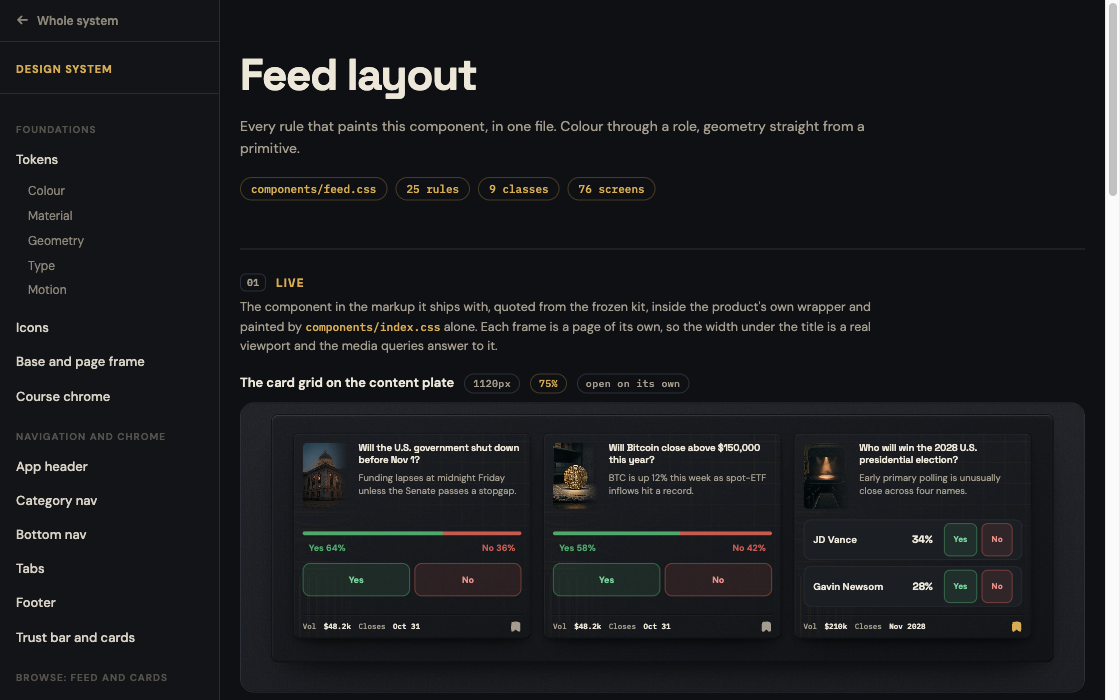
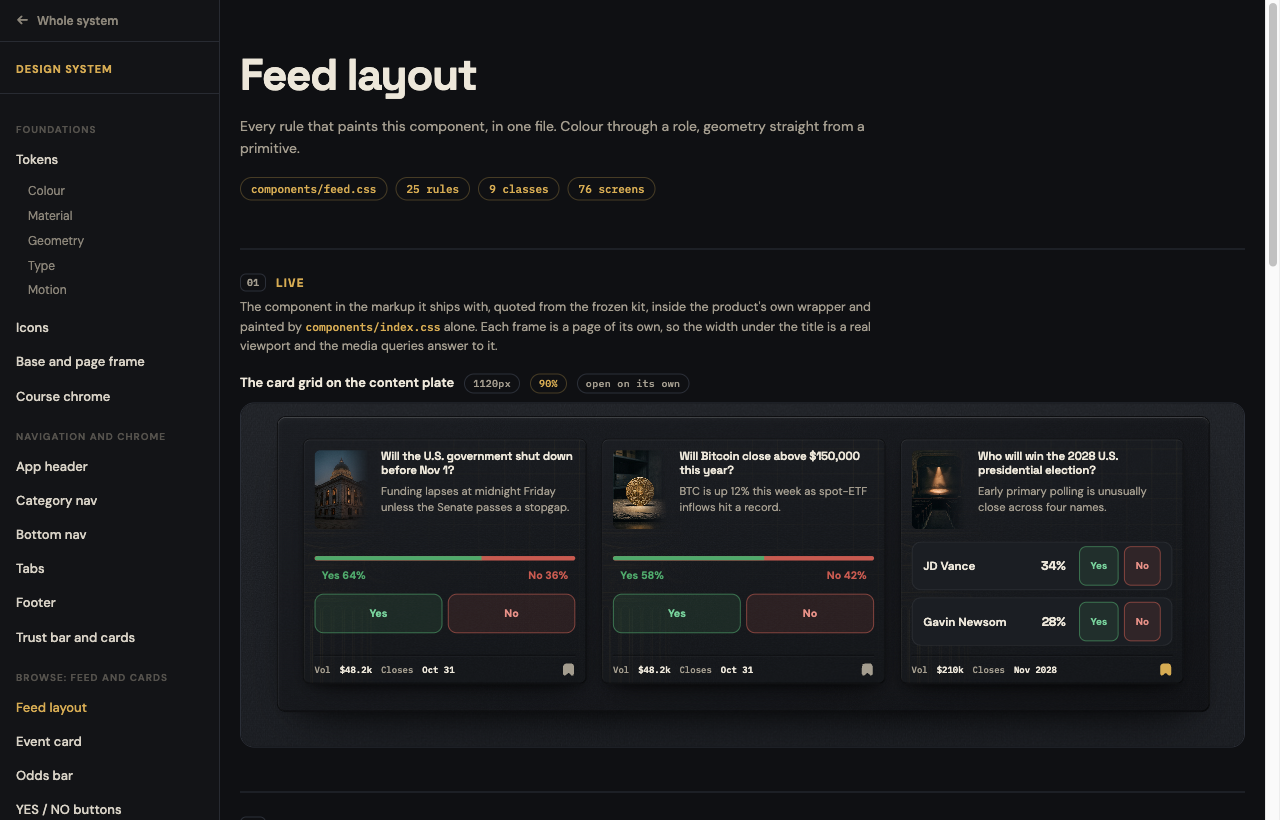
Stage 09: the specimen frame stops drawing a box
The frame had a border, a 14px corner radius and a background. All three cut
into the components: the radius clipped the corner of a button that sits flush
to the edge of its viewport, and the hairline drew a line across the row. The
frame now draws nothing and is only a box that holds a width.

What a specimen stands on is decided by the specimen. A layout keeps the
product's stone and plate, because that is what a screen is. A single control
gets .app-case alone, which is transparent, so it stands on the page instead of
on a rectangle of stone the product would never put a lone button on. Nineteen
specimens are marked canvas:false: the three button rows, Load more, the sort
menu, the toggle, the toast, the trust bar, the four dialogs, the amount field,
the three icon sets, the separator demo, the sidebar and the cookie banner.

Verified the page and the specimen now paint the same colour (rgb(15,16,19) on
both sides of the frame), so there is no seam left to see. 59 of 59 pass, all 11
gates green, nothing outside ui-kit/ touched.

diff --git a/ui-kit/specimens/icons-sprite.html b/ui-kit/specimens/icons-sprite.html
@@ -8,9 +8,9 @@
 <link rel="stylesheet" href="../_specimen.css">
 </head>
 <body>
-<div class="device"><div class="app-case">
+<div class="app-case">
 <div class="kit-icons"><figure class="kit-ico"><svg class="ic" viewBox="0 0 24 24" aria-hidden="true"><use href="#i-cat-fire"/></svg><figcaption>Trending</figcaption><code>#i-cat-fire</code></figure><figure class="kit-ico"><svg class="ic" viewBox="0 0 24 24" aria-hidden="true"><use href="#i-cat-politics"/></svg><figcaption>Politics</figcaption><code>#i-cat-politics</code></figure><figure class="kit-ico"><svg class="ic" viewBox="0 0 24 24" aria-hidden="true"><use href="#i-cat-crypto"/></svg><figcaption>Crypto</figcaption><code>#i-cat-crypto</code></figure><figure class="kit-ico"><svg class="ic" viewBox="0 0 24 24" aria-hidden="true"><use href="#i-cat-culture"/></svg><figcaption>Culture</figcaption><code>#i-cat-culture</code></figure><figure class="kit-ico"><svg class="ic" viewBox="0 0 24 24" aria-hidden="true"><use href="#i-cat-general"/></svg><figcaption>General</figcaption><code>#i-cat-general</code></figure><figure class="kit-ico"><svg class="ic" viewBox="0 0 24 24" aria-hidden="true"><use href="#i-bell-b"/></svg><figcaption>Notifications</figcaption><code>#i-bell-b</code></figure><figure class="kit-ico"><svg class="ic" viewBox="0 0 24 24" aria-hidden="true"><use href="#i-bookmark-b"/></svg><figcaption>Save / favorite</figcaption><code>#i-bookmark-b</code></figure><figure class="kit-ico"><svg class="ic" viewBox="0 0 24 24" aria-hidden="true"><use href="#i-heart-b"/></svg><figcaption>Like</figcaption><code>#i-heart-b</code></figure><figure class="kit-ico"><svg class="ic" viewBox="0 0 24 24" aria-hidden="true"><use href="#i-chat-b"/></svg><figcaption>Comment</figcaption><code>#i-chat-b</code></figure><figure class="kit-ico"><svg class="ic" viewBox="0 0 24 24" aria-hidden="true"><use href="#i-share-b"/></svg><figcaption>Share</figcaption><code>#i-share-b</code></figure><figure class="kit-ico"><svg class="ic" viewBox="0 0 24 24" aria-hidden="true"><use href="#i-shield-b"/></svg><figcaption>Funds safety</figcaption><code>#i-shield-b</code></figure><figure class="kit-ico"><svg class="ic" viewBox="0 0 24 24" aria-hidden="true"><use href="#i-verified-b"/></svg><figcaption>Verified</figcaption><code>#i-verified-b</code></figure><figure class="kit-ico"><svg class="ic" viewBox="0 0 24 24" aria-hidden="true"><use href="#i-seo-chart"/></svg><figcaption>Chart</figcaption><code>#i-seo-chart</code></figure><figure class="kit-ico"><svg class="ic" viewBox="0 0 24 24" aria-hidden="true"><use href="#i-seo-guide"/></svg><figcaption>Guide</figcaption><code>#i-seo-guide</code></figure><figure class="kit-ico"><svg class="ic" viewBox="0 0 24 24" aria-hidden="true"><use href="#i-seo-qa"/></svg><figcaption>Q and A</figcaption><code>#i-seo-qa</code></figure></div>
-</div></div>
+</div>
 <svg width="0" height="0" aria-hidden="true" style="position:absolute"><defs><symbol id="i-bell-b" viewBox="0 0 24 24"><path fill="currentColor" d="M18.75 9.71v-.705C18.75 5.136 15.726 2 12 2S5.25 5.136 5.25 9.005v.705a4.4 4.4 0 0 1-.692 2.375L3.45 13.81c-1.011 1.575.062 3.68 1.966 3.843a51 51 0 0 0 13.167 0c1.904-.163 2.977-2.268 1.966-3.843l-1.108-1.725a4.4 4.4 0 0 1-.692-2.375"/><path fill="currentColor" d="M7.243 18.545a5.002 5.002 0 0 0 9.513 0c-3.145.28-6.367.281-9.513 0"/></symbol><symbol id="i-bookmark-b" viewBox="0 0 24 24"><path fill="currentColor" fill-rule="evenodd" d="M21 11.098v4.993c0 3.096 0 4.645-.734 5.321c-.35.323-.792.526-1.263.58c-.987.113-2.14-.907-4.445-2.946c-1.02-.901-1.529-1.352-2.118-1.47a2.2 2.2 0 0 0-.88 0c-.59.118-1.099.569-2.118 1.47c-2.305 2.039-3.458 3.059-4.445 2.945a2.24 2.24 0 0 1-1.263-.579C3 20.736 3 19.188 3 16.091v-4.994C3 6.81 3 4.666 4.318 3.333S7.758 2 12 2s6.364 0 7.682 1.332S21 6.81 21 11.098M8.25 6A.75.75 0 0 1 9 5.25h6a.75.75 0 0 1 0 1.5H9A.75.75 0 0 1 8.25 6" clip-rule="evenodd"/></symbol><symbol id="i-cat-crypto" viewBox="0 0 24 24"><path fill="currentColor" fill-rule="evenodd" d="M12 22c5.523 0 10-4.477 10-10S17.523 2 12 2S2 6.477 2 12s4.477 10 10 10m.75-16a.75.75 0 0 0-1.5 0v.317c-1.63.292-3 1.517-3 3.183c0 1.917 1.813 3.25 3.75 3.25c1.377 0 2.25.906 2.25 1.75s-.873 1.75-2.25 1.75c-1.376 0-2.25-.906-2.25-1.75a.75.75 0 0 0-1.5 0c0 1.666 1.37 2.891 3 3.183V18a.75.75 0 0 0 1.5 0v-.317c1.63-.292 3-1.517 3-3.183c0-1.917-1.813-3.25-3.75-3.25c-1.376 0-2.25-.906-2.25-1.75s.874-1.75 2.25-1.75c1.377 0 2.25.906 2.25 1.75a.75.75 0 0 0 1.5 0c0-1.666-1.37-2.891-3-3.183z" clip-rule="evenodd"/></symbol><symbol id="i-cat-culture" viewBox="0 0 24 24"><path fill="currentColor" d="m21.537 9.136l-.846 3.297c-.43 1.676-1.306 2.855-2.336 3.685c.219-1.144.214-2.418-.144-3.814l-.864-3.37l-.15-.584a.9.9 0 0 1 .599-.044c.378.101.608.406.637.702a.75.75 0 1 0 1.493-.145c-.091-.942-.783-1.749-1.742-2.006a2.4 2.4 0 0 0-1.418.05l-.017-.044c-.224-.596-.552-1.229-1.171-1.693a3.5 3.5 0 0 0-1.13-.562c-.759-.215-1.463-.076-2.064.124c-.558.185-1.21.49-1.924.825l-.072.034c-1.185.555-1.659.773-2.144.928q-.22.07-.446.127l.327-1.267c.44-1.719.661-2.578 1.236-3.01c.193-.145.41-.252.638-.317c.684-.194 1.461.17 3.015.897c1.15.54 1.726.809 2.326 1q.314.099.632.176c.612.149 1.239.216 2.493.351c1.694.182 2.54.273 3.04.798c.167.177.303.383.4.609c.292.675.072 1.534-.368 3.253"/><path fill="currentColor" fill-rule="evenodd" d="m16.758 12.677l-.845-3.298c-.44-1.719-.66-2.578-1.236-3.01a2 2 0 0 0-.638-.317c-.684-.194-1.46.17-3.015.897c-1.15.54-1.726.809-2.326 1a10 10 0 0 1-.632.176c-.611.149-1.238.216-2.493.351c-1.694.182-2.54.273-3.04.798a2.1 2.1 0 0 0-.4.609c-.292.675-.072 1.534.369 3.253l.845 3.297c.993 3.876 4.296 5.096 6.516 5.473c.677.115 1.016.172 2.044-.116s1.294-.514 1.825-.968c1.742-1.487 4.02-4.27 3.026-8.145m-10.753.691c.029-.296.26-.6.638-.702c.379-.102.73.047.903.29a.75.75 0 0 0 1.22-.873c-.55-.77-1.552-1.123-2.511-.866s-1.651 1.064-1.743 2.006a.75.75 0 0 0 1.493.145m5.796-1.553c.029-.296.26-.6.638-.702c.379-.102.73.047.903.289a.75.75 0 1 0 1.22-.872c-.55-.77-1.552-1.123-2.511-.866s-1.651 1.063-1.743 2.006a.75.75 0 0 0 1.493.145m1.846 3.814a.75.75 0 0 1-.885 1.211l-.01-.006a2 2 0 0 0-.485-.2c-.36-.098-.929-.163-1.685.04c-.756.202-1.216.543-1.48.808a2 2 0 0 0-.32.416l-.005.01a.75.75 0 0 1-1.372-.607l.688.298c-.688-.298-.687-.3-.687-.3v-.001l.002-.004l.004-.009l.01-.022l.033-.064q.04-.078.115-.196c.1-.156.252-.36.468-.578c.437-.44 1.125-.924 2.156-1.2c1.031-.277 1.87-.2 2.467-.038c.296.08.53.18.694.266a3 3 0 0 1 .258.151l.02.015l.008.005l.003.003h.002z" clip-rule="evenodd"/></symbol><symbol id="i-cat-fire" viewBox="0 0 24 24"><path fill="currentColor" d="M12.832 21.801c3.126-.626 7.168-2.875 7.168-8.69c0-5.291-3.873-8.815-6.658-10.434c-.619-.36-1.342.113-1.342.828v1.828c0 1.442-.606 4.074-2.29 5.169c-.86.559-1.79-.278-1.894-1.298l-.086-.838c-.1-.974-1.092-1.565-1.87-.971C4.461 8.46 3 10.33 3 13.11C3 20.221 8.289 22 10.933 22q.232 0 .484-.015C10.111 21.874 8 21.064 8 18.444c0-2.05 1.495-3.435 2.631-4.11c.306-.18.663.055.663.41v.59c0 .45.175 1.155.59 1.637c.47.546 1.159-.026 1.214-.744c.018-.226.246-.37.442-.256c.641.375 1.46 1.175 1.46 2.473c0 2.048-1.129 2.99-2.168 3.357"/></symbol><symbol id="i-cat-general" viewBox="0 0 24 24"><path fill="currentColor" fill-rule="evenodd" d="M2 6.634a4.634 4.634 0 1 1 9.268 0a4.634 4.634 0 0 1-9.268 0m10.732 10.732a4.634 4.634 0 1 1 9.268 0a4.634 4.634 0 0 1-9.268 0" clip-rule="evenodd"/><path fill="currentColor" d="M2 17.5c0-2.121 0-3.182.659-3.841S4.379 13 6.5 13s3.182 0 3.841.659S11 15.379 11 17.5s0 3.182-.659 3.841S8.621 22 6.5 22s-3.182 0-3.841-.659S2 19.621 2 17.5m11-11c0-2.121 0-3.182.659-3.841S15.379 2 17.5 2s3.182 0 3.841.659S22 4.379 22 6.5s0 3.182-.659 3.841S19.621 11 17.5 11s-3.182 0-3.841-.659S13 8.621 13 6.5"/></symbol><symbol id="i-cat-politics" viewBox="0 0 24 24"><path fill="currentColor" fill-rule="evenodd" d="M21.25 8.5c0-1.404 0-2.107-.337-2.611a2 2 0 0 0-.552-.552c-.441-.295-1.034-.332-2.115-.336q.005.438.004.91V7.25h1a.75.75 0 0 1 0 1.5h-1v1.5h1a.75.75 0 0 1 0 1.5h-1v1.5h1a.75.75 0 0 1 0 1.5h-1v6.5h-1.5V6c0-1.886 0-2.828-.586-3.414S14.636 2 12.75 2h-2c-1.886 0-2.828 0-3.414.586S6.75 4.114 6.75 6v15.25h-1.5v-6.5h-1a.75.75 0 0 1 0-1.5h1v-1.5h-1a.75.75 0 0 1 0-1.5h1v-1.5h-1a.75.75 0 0 1 0-1.5h1V5.91q-.001-.47.004-.91c-1.081.005-1.674.042-2.115.337a2 2 0 0 0-.552.552C2.25 6.393 2.25 7.096 2.25 8.5v12.75h-.5a.75.75 0 0 0 0 1.5h20a.75.75 0 0 0 0-1.5h-.5zM9 11.75a.75.75 0 0 1 .75-.75h4a.75.75 0 0 1 0 1.5h-4a.75.75 0 0 1-.75-.75m0 3a.75.75 0 0 1 .75-.75h4a.75.75 0 0 1 0 1.5h-4a.75.75 0 0 1-.75-.75m2.75 3.5a.75.75 0 0 1 .75.75v2.25H11V19a.75.75 0 0 1 .75-.75M9 6.25a.75.75 0 0 1 .75-.75h4a.75.75 0 0 1 0 1.5h-4A.75.75 0 0 1 9 6.25m0 3a.75.75 0 0 1 .75-.75h4a.75.75 0 0 1 0 1.5h-4A.75.75 0 0 1 9 9.25" clip-rule="evenodd"/></symbol><symbol id="i-chat-b" viewBox="0 0 24 24"><path fill="currentColor" fill-rule="evenodd" clip-rule="evenodd" d="M12 22c5.523 0 10-4.477 10-10S17.523 2 12 2S2 6.477 2 12c0 1.6.376 3.112 1.043 4.453c.178.356.237.763.134 1.148l-.595 2.226a1.3 1.3 0 0 0 1.591 1.592l2.226-.596a1.63 1.63 0 0 1 1.149.133A9.96 9.96 0 0 0 12 22"/></symbol><symbol id="i-heart-b" viewBox="0 0 24 24"><path fill="currentColor" d="M2 9.137C2 14 6.02 16.591 8.962 18.911C10 19.729 11 20.5 12 20.5s2-.77 3.038-1.59C17.981 16.592 22 14 22 9.138s-5.5-8.406-10-3.985C7.5.735 2 4.275 2 9.137"/></symbol><symbol id="i-seo-chart" viewBox="0 0 24 24"><path fill="currentColor" d="M5 21a1.5 1.5 0 0 1-1.5-1.5v-3a1.5 1.5 0 0 1 3 0v3A1.5 1.5 0 0 1 5 21m7 0a1.5 1.5 0 0 1-1.5-1.5v-8a1.5 1.5 0 0 1 3 0v8A1.5 1.5 0 0 1 12 21m7 0a1.5 1.5 0 0 1-1.5-1.5V6a1.5 1.5 0 0 1 3 0v13.5A1.5 1.5 0 0 1 19 21"/></symbol><symbol id="i-seo-guide" viewBox="0 0 24 24"><path fill="currentColor" d="M11 4.2C9.6 3.3 7.9 2.8 6 2.8c-1.1 0-2.1.2-3 .5C2.4 3.5 2 4 2 4.6v12.2c0 .9.9 1.5 1.7 1.2c.7-.2 1.5-.3 2.3-.3c1.8 0 3.4.6 4.6 1.5c.2.2.5.3.8.3V5c-.1-.3-.2-.6-.4-.8m2 0c-.2.2-.3.5-.4.8v14.5c.3 0 .6-.1.8-.3c1.2-.9 2.8-1.5 4.6-1.5c.8 0 1.6.1 2.3.3c.8.3 1.7-.3 1.7-1.2V4.6c0-.6-.4-1.1-1-1.3c-.9-.3-1.9-.5-3-.5c-1.9 0-3.6.5-5 1.4"/></symbol><symbol id="i-seo-qa" viewBox="0 0 24 24"><path fill="currentColor" d="M12 2a6 6 0 0 0-6 6a1.5 1.5 0 0 0 3 0a3 3 0 1 1 4.3 2.7c-1.1.6-2.8 1.7-2.8 3.8v.5a1.5 1.5 0 0 0 3 0v-.5c0-.3.4-.7 1.1-1.1A6 6 0 0 0 12 2m0 16.5A1.75 1.75 0 1 0 12 22a1.75 1.75 0 0 0 0-3.5"/></symbol><symbol id="i-share-b" viewBox="0 0 24 24"><path fill="currentColor" d="M13.803 5.333c0-1.84 1.507-3.333 3.365-3.333c1.86 0 3.366 1.492 3.366 3.333c0 1.841-1.507 3.334-3.366 3.334a3.38 3.38 0 0 1-2.037-.678l-4.67 3.204a3.3 3.3 0 0 1 0 1.62l4.67 3.204a3.38 3.38 0 0 1 2.037-.677c1.86 0 3.366 1.492 3.366 3.333S19.028 22 17.168 22c-1.858 0-3.365-1.492-3.365-3.333q0-.413.098-.804l-4.67-3.204a3.38 3.38 0 0 1-2.037.677C5.507 15.336 4 13.843 4 12.002s1.507-3.333 3.365-3.333c.762 0 1.474.252 2.037.677l4.67-3.204a3.3 3.3 0 0 1-.099-.809"/></symbol><symbol id="i-shield-b" viewBox="0 0 24 24"><path fill="currentColor" fill-rule="evenodd" d="M3.378 5.082C3 5.62 3 7.22 3 10.417v1.574c0 5.638 4.239 8.375 6.899 9.536c.721.315 1.082.473 2.101.473c1.02 0 1.38-.158 2.101-.473C16.761 20.365 21 17.63 21 11.991v-1.574c0-3.198 0-4.797-.378-5.335c-.377-.537-1.88-1.052-4.887-2.081l-.573-.196C13.595 2.268 12.812 2 12 2s-1.595.268-3.162.805L8.265 3c-3.007 1.03-4.51 1.545-4.887 2.082M15.06 10.5a.75.75 0 0 0-1.12-.999l-3.011 3.374l-.87-.974a.75.75 0 0 0-1.118 1l1.428 1.6a.75.75 0 0 0 1.119 0z" clip-rule="evenodd"/></symbol><symbol id="i-verified-b" viewBox="0 0 24 24"><path fill="currentColor" fill-rule="evenodd" d="M9.592 3.2a6 6 0 0 1-.495.399c-.298.2-.633.338-.985.408c-.153.03-.313.043-.632.068c-.801.064-1.202.096-1.536.214a2.71 2.71 0 0 0-1.655 1.655c-.118.334-.15.735-.214 1.536a6 6 0 0 1-.068.632c-.07.352-.208.687-.408.985c-.087.13-.191.252-.399.495c-.521.612-.782.918-.935 1.238c-.353.74-.353 1.6 0 2.34c.153.32.414.626.935 1.238c.208.243.312.365.399.495c.2.298.338.633.408.985c.03.153.043.313.068.632c.064.801.096 1.202.214 1.536a2.71 2.71 0 0 0 1.655 1.655c.334.118.735.15 1.536.214c.319.025.479.038.632.068c.352.07.687.209.985.408c.13.087.252.191.495.399c.612.521.918.782 1.238.935c.74.353 1.6.353 2.34 0c.32-.153.626-.414 1.238-.935c.243-.208.365-.312.495-.399c.298-.2.633-.338.985-.408c.153-.03.313-.043.632-.068c.801-.064 1.202-.096 1.536-.214a2.71 2.71 0 0 0 1.655-1.655c.118-.334.15-.735.214-1.536c.025-.319.038-.479.068-.632c.07-.352.209-.687.408-.985c.087-.13.191-.252.399-.495c.521-.612.782-.918.935-1.238c.353-.74.353-1.6 0-2.34c-.153-.32-.414-.626-.935-1.238a6 6 0 0 1-.399-.495a2.7 2.7 0 0 1-.408-.985a6 6 0 0 1-.068-.632c-.064-.801-.096-1.202-.214-1.536a2.71 2.71 0 0 0-1.655-1.655c-.334-.118-.735-.15-1.536-.214a6 6 0 0 1-.632-.068a2.7 2.7 0 0 1-.985-.408a6 6 0 0 1-.495-.399c-.612-.521-.918-.782-1.238-.935a2.71 2.71 0 0 0-2.34 0c-.32.153-.626.414-1.238.935m6.781 6.663a.814.814 0 0 0-1.15-1.15l-4.85 4.85l-1.596-1.595a.814.814 0 0 0-1.15 1.15l2.17 2.17a.814.814 0 0 0 1.15 0z" clip-rule="evenodd"/></symbol></defs></svg>
 <script>
 /* Report to the vitrine: how tall this specimen is, and whether it rendered.

diff --git a/ui-kit/specimens/icons-interface.html b/ui-kit/specimens/icons-interface.html
@@ -8,9 +8,9 @@
 <link rel="stylesheet" href="../_specimen.css">
 </head>
 <body>
-<div class="device"><div class="app-case">
+<div class="app-case">
 <div class="kit-icons"><figure class="kit-ico"><svg class="ic" viewBox="0 0 24 24" aria-hidden="true"><path d="M3 6h18M3 12h18M3 18h18"/></svg><figcaption>Menu</figcaption></figure><figure class="kit-ico"><svg class="ic" viewBox="0 0 24 24" aria-hidden="true"><path d="M7 7h12l-3-3M17 17H5l3 3"/></svg><figcaption>Swap</figcaption></figure><figure class="kit-ico"><svg class="ic" viewBox="0 0 24 24" aria-hidden="true"><path d="M12 5v14M5 12h14"/></svg><figcaption>Add</figcaption></figure><figure class="kit-ico"><svg class="ic" viewBox="0 0 24 24" aria-hidden="true"><circle cx="12" cy="8" r="4"/><path d="M4 21c0-4 4-6 8-6s8 2 8 6"/></svg><figcaption>User</figcaption></figure><figure class="kit-ico"><svg class="ic" viewBox="0 0 24 24" aria-hidden="true"><path d="M6 9l6 6 6-6"/></svg><figcaption>Chevron down</figcaption></figure><figure class="kit-ico"><svg class="ic" viewBox="0 0 24 24" aria-hidden="true"><circle cx="11" cy="11" r="7"/><path d="M20 20l-4-4"/></svg><figcaption>Search</figcaption></figure><figure class="kit-ico"><svg class="ic" viewBox="0 0 24 24" aria-hidden="true"><path d="M4 4h7v7H4zM13 4h7v7h-7zM4 13h7v7H4zM13 13h7v7h-7z"/></svg><figcaption>Events / grid</figcaption></figure><figure class="kit-ico"><svg class="ic" viewBox="0 0 24 24" aria-hidden="true"><path d="M4 6h16M4 12h16M4 18h10"/></svg><figcaption>List / My Bets</figcaption></figure><figure class="kit-ico"><svg class="ic" viewBox="0 0 24 24" aria-hidden="true"><path d="M12 3l7 3v5c0 4.5-3 7.6-7 9-4-1.4-7-4.5-7-9V6z"/><path d="M8.8 12l2.2 2.2L15.4 10"/></svg><figcaption>Shield check</figcaption></figure><figure class="kit-ico"><svg class="ic" viewBox="0 0 24 24" aria-hidden="true"><circle cx="12" cy="12" r="8"/><path d="M4 12h16M12 4c2.4 2.5 2.4 13 0 16M12 4c-2.4 2.5-2.4 13 0 16"/></svg><figcaption>Globe</figcaption></figure><figure class="kit-ico"><svg class="ic" viewBox="0 0 24 24" aria-hidden="true"><path d="M4 13l4 4L20 5"/></svg><figcaption>Check</figcaption></figure><figure class="kit-ico"><svg class="ic" viewBox="0 0 24 24" aria-hidden="true"><path d="M5 5l14 14M19 5L5 19"/></svg><figcaption>Close</figcaption></figure><figure class="kit-ico"><svg class="ic" viewBox="0 0 24 24" aria-hidden="true"><path d="M7 7h10a2 2 0 0 1 2 2v6a2 2 0 0 1-2 2l-1-2H8l-1 2a2 2 0 0 1-2-2V9a2 2 0 0 1 2-2z"/><circle cx="10" cy="12" r="1.1"/><circle cx="14" cy="12" r="1.1"/></svg><figcaption>Comment</figcaption></figure><figure class="kit-ico"><svg class="ic" viewBox="0 0 24 24" aria-hidden="true"><path d="M21 5L3 12l6 2 2 6 3-4 5 4z"/></svg><figcaption>Send</figcaption></figure><figure class="kit-ico"><svg class="ic" viewBox="0 0 24 24" aria-hidden="true"><rect x="5" y="5" width="14" height="14" rx="4"/><circle cx="12" cy="12" r="3.5"/><circle cx="16.6" cy="7.4" r="0.7"/></svg><figcaption>Camera</figcaption></figure><figure class="kit-ico"><svg class="ic" viewBox="0 0 24 24" aria-hidden="true"><path d="M11 5v9.5a3 3 0 1 1-2.5-3"/><path d="M11 5c.5 2.5 2.5 4 4.5 4"/></svg><figcaption>Audio</figcaption></figure><figure class="kit-ico"><svg class="ic" viewBox="0 0 24 24" aria-hidden="true"><path d="M6 6l12 12M18 6L6 18"/></svg><figcaption>Close</figcaption></figure><figure class="kit-ico"><svg class="ic" viewBox="0 0 24 24" aria-hidden="true"><circle cx="12" cy="12" r="9"/><path d="M8 12l3 3 5-6"/></svg><figcaption>Check (circle)</figcaption></figure><figure class="kit-ico"><svg class="ic" viewBox="0 0 24 24" aria-hidden="true"><path d="M4 15l5-5 4 3 6-8"/><path d="M20 5h-4M20 5v4"/></svg><figcaption>Trending up</figcaption></figure><figure class="kit-ico"><svg class="ic" viewBox="0 0 24 24" aria-hidden="true"><path d="M5 12h14M13 6l6 6-6 6"/></svg><figcaption>Arrow right</figcaption></figure><figure class="kit-ico"><svg class="ic" viewBox="0 0 24 24" aria-hidden="true"><path d="M12 4l9 16H3z"/><path d="M12 10v4"/><path d="M12 17h.01"/></svg><figcaption>Warning</figcaption></figure><figure class="kit-ico"><svg class="ic" viewBox="0 0 24 24" aria-hidden="true"><path d="M3 13l3-8h12l3 8M3 13v6h18v-6M3 13h5l2 3h4l2-3h5"/></svg><figcaption>Inbox</figcaption></figure><figure class="kit-ico"><svg class="ic" viewBox="0 0 24 24" aria-hidden="true"><circle cx="12" cy="12" r="9"/><path d="M12 8v5M12 16h.01"/></svg><figcaption>Alert</figcaption></figure><figure class="kit-ico"><svg class="ic" viewBox="0 0 24 24" aria-hidden="true"><circle cx="12" cy="12" r="9"/><path d="M12 11v5M12 8h.01"/></svg><figcaption>Info</figcaption></figure><figure class="kit-ico"><svg class="ic" viewBox="0 0 24 24" aria-hidden="true"><path d="M6 3h12v18l-6-4-6 4z"/></svg><figcaption>Bookmark</figcaption></figure><figure class="kit-ico"><svg class="ic" viewBox="0 0 24 24" aria-hidden="true"><path d="M6 9a6 6 0 0 1 12 0c0 5 2 6 2 6H4s2-1 2-6z"/><path d="M10 19a2 2 0 0 0 4 0"/></svg><figcaption>Bell</figcaption></figure><figure class="kit-ico"><svg class="ic" viewBox="0 0 24 24" aria-hidden="true"><path d="M10 17l5-5-5-5M15 12H3M14 4h5v16h-5"/></svg><figcaption>Sign in</figcaption></figure><figure class="kit-ico"><svg class="ic" viewBox="0 0 24 24" aria-hidden="true"><path d="M4 7h12M4 12h8M4 17h4"/></svg><figcaption>Description</figcaption></figure><figure class="kit-ico"><svg class="ic" viewBox="0 0 24 24" aria-hidden="true"><circle cx="12" cy="12" r="9"/><path d="M12 7v5l3 2"/></svg><figcaption>Clock</figcaption></figure><figure class="kit-ico"><svg class="ic" viewBox="0 0 24 24" aria-hidden="true"><circle cx="11" cy="11" r="7"/><path d="M16 16l5 5"/></svg><figcaption>Search</figcaption></figure><figure class="kit-ico"><svg class="ic" viewBox="0 0 24 24" aria-hidden="true"><path d="M10 12h10M16 8l4 4-4 4M14 4H6a2 2 0 0 0-2 2v12a2 2 0 0 0 2 2h8"/></svg><figcaption>Sign out</figcaption></figure><figure class="kit-ico"><svg class="ic" viewBox="0 0 24 24" aria-hidden="true"><path d="M4 5h7v6H4zM13 5h7v6h-7zM4 13h7v6H4zM13 13h7v6h-7z"/></svg><figcaption>Grid</figcaption></figure><figure class="kit-ico"><svg class="ic" viewBox="0 0 24 24" aria-hidden="true"><circle cx="12" cy="12" r="8"/><path d="M12 8v4l3 2"/></svg><figcaption>Clock</figcaption></figure><figure class="kit-ico"><svg class="ic" viewBox="0 0 24 24" aria-hidden="true"><circle cx="12" cy="12" r="9"/><path d="M8 10h.01M16 10h.01M8 15h8"/></svg><figcaption>Neutral face</figcaption></figure><figure class="kit-ico"><svg class="ic" viewBox="0 0 24 24" aria-hidden="true"><circle cx="12" cy="12" r="9"/><path d="M12 8v8M8 12h8"/></svg><figcaption>Add (circle)</figcaption></figure><figure class="kit-ico"><svg class="ic" viewBox="0 0 24 24" aria-hidden="true"><path d="M12 7c1-2 3-3 4-3 0 2-1 3-2 4M9 9c-2 0-4 2-4 5s2 6 4 6c1 0 1.5-.5 3-.5s2 .5 3 .5c1.5 0 3-2 3-4-2-1-2-4 0-5-1-1.5-3-1.5-4-1.5S11 9 9 9z"/></svg><figcaption>Sparkle</figcaption></figure><figure class="kit-ico"><svg class="ic" viewBox="0 0 24 24" aria-hidden="true"><path d="M5 12l4 4L19 7"/></svg><figcaption>Check</figcaption></figure></div>
-</div></div>
+</div>
 <script>
 /* Report to the vitrine: how tall this specimen is, and whether it rendered.
    postMessage crosses origins, so this works from file:// as well as from a

diff --git a/ui-kit/specimens/trustbar-feed.html b/ui-kit/specimens/trustbar-feed.html
@@ -8,7 +8,7 @@
 <link rel="stylesheet" href="../_specimen.css">
 </head>
 <body>
-<div class="device"><div class="app-case">
+<div class="app-case">
 <div class="feed-trustbar" style="display:block">
       <div class="ft-inner">
         <span class="ft-item">
@@ -22,7 +22,7 @@
         </span>
       </div>
     </div>
-</div></div>
+</div>
 <svg width="0" height="0" aria-hidden="true" style="position:absolute"><defs><symbol id="i-shield-b" viewBox="0 0 24 24"><path fill="currentColor" fill-rule="evenodd" d="M3.378 5.082C3 5.62 3 7.22 3 10.417v1.574c0 5.638 4.239 8.375 6.899 9.536c.721.315 1.082.473 2.101.473c1.02 0 1.38-.158 2.101-.473C16.761 20.365 21 17.63 21 11.991v-1.574c0-3.198 0-4.797-.378-5.335c-.377-.537-1.88-1.052-4.887-2.081l-.573-.196C13.595 2.268 12.812 2 12 2s-1.595.268-3.162.805L8.265 3c-3.007 1.03-4.51 1.545-4.887 2.082M15.06 10.5a.75.75 0 0 0-1.12-.999l-3.011 3.374l-.87-.974a.75.75 0 0 0-1.118 1l1.428 1.6a.75.75 0 0 0 1.119 0z" clip-rule="evenodd"/></symbol><symbol id="i-verified-b" viewBox="0 0 24 24"><path fill="currentColor" fill-rule="evenodd" d="M9.592 3.2a6 6 0 0 1-.495.399c-.298.2-.633.338-.985.408c-.153.03-.313.043-.632.068c-.801.064-1.202.096-1.536.214a2.71 2.71 0 0 0-1.655 1.655c-.118.334-.15.735-.214 1.536a6 6 0 0 1-.068.632c-.07.352-.208.687-.408.985c-.087.13-.191.252-.399.495c-.521.612-.782.918-.935 1.238c-.353.74-.353 1.6 0 2.34c.153.32.414.626.935 1.238c.208.243.312.365.399.495c.2.298.338.633.408.985c.03.153.043.313.068.632c.064.801.096 1.202.214 1.536a2.71 2.71 0 0 0 1.655 1.655c.334.118.735.15 1.536.214c.319.025.479.038.632.068c.352.07.687.209.985.408c.13.087.252.191.495.399c.612.521.918.782 1.238.935c.74.353 1.6.353 2.34 0c.32-.153.626-.414 1.238-.935c.243-.208.365-.312.495-.399c.298-.2.633-.338.985-.408c.153-.03.313-.043.632-.068c.801-.064 1.202-.096 1.536-.214a2.71 2.71 0 0 0 1.655-1.655c.118-.334.15-.735.214-1.536c.025-.319.038-.479.068-.632c.07-.352.209-.687.408-.985c.087-.13.191-.252.399-.495c.521-.612.782-.918.935-1.238c.353-.74.353-1.6 0-2.34c-.153-.32-.414-.626-.935-1.238a6 6 0 0 1-.399-.495a2.7 2.7 0 0 1-.408-.985a6 6 0 0 1-.068-.632c-.064-.801-.096-1.202-.214-1.536a2.71 2.71 0 0 0-1.655-1.655c-.334-.118-.735-.15-1.536-.214a6 6 0 0 1-.632-.068a2.7 2.7 0 0 1-.985-.408a6 6 0 0 1-.495-.399c-.612-.521-.918-.782-1.238-.935a2.71 2.71 0 0 0-2.34 0c-.32.153-.626.414-1.238.935m6.781 6.663a.814.814 0 0 0-1.15-1.15l-4.85 4.85l-1.596-1.595a.814.814 0 0 0-1.15 1.15l2.17 2.17a.814.814 0 0 0 1.15 0z" clip-rule="evenodd"/></symbol></defs></svg>
 <script>
 /* Report to the vitrine: how tall this specimen is, and whether it rendered.

diff --git a/ui-kit/specimens/icons-brand.html b/ui-kit/specimens/icons-brand.html
@@ -8,9 +8,9 @@
 <link rel="stylesheet" href="../_specimen.css">
 </head>
 <body>
-<div class="device"><div class="app-case">
+<div class="app-case">
 <div class="kit-icons"><figure class="kit-ico"><svg class="kit-brandic" viewBox="0 0 24 24" aria-hidden="true"><path fill="#4285F4" d="M23.52 12.27c0-.82-.07-1.6-.21-2.36H12v4.47h6.47a5.53 5.53 0 0 1-2.4 3.63v3h3.88c2.27-2.09 3.58-5.17 3.58-8.74z"/><path fill="#34A853" d="M12 24c3.24 0 5.96-1.08 7.94-2.91l-3.88-3.01c-1.07.72-2.45 1.15-4.06 1.15-3.13 0-5.78-2.11-6.73-4.96H1.26v3.11A12 12 0 0 0 12 24z"/><path fill="#FBBC05" d="M5.27 14.27a7.2 7.2 0 0 1 0-4.54V6.62H1.26a12 12 0 0 0 0 10.76l4.01-3.11z"/><path fill="#EA4335" d="M12 4.77c1.77 0 3.35.61 4.6 1.8l3.43-3.43C17.95 1.19 15.24 0 12 0A12 12 0 0 0 1.26 6.62l4.01 3.11C6.22 6.88 8.87 4.77 12 4.77z"/></svg><figcaption>Google</figcaption></figure><figure class="kit-ico"><svg class="kit-brandic" viewBox="0 0 24 24" aria-hidden="true"><path fill="currentColor" d="M18.9 1.15h3.68l-8.05 9.2L24 22.85h-7.41l-5.8-7.58-6.64 7.58H.46l8.6-9.84L0 1.15h7.6l5.24 6.93 6.06-6.93zm-1.29 19.5h2.04L6.49 3.24H4.3l13.31 17.41z"/></svg><figcaption>X</figcaption></figure><figure class="kit-ico"><svg class="kit-brandic" viewBox="0 0 24 24" aria-hidden="true"><path fill="currentColor" d="M17.05 12.54c-.03-2.7 2.2-3.99 2.3-4.06-1.26-1.84-3.21-2.09-3.9-2.12-1.66-.17-3.24.98-4.09.98-.84 0-2.13-.96-3.51-.93-1.81.03-3.48 1.05-4.41 2.67-1.88 3.27-.48 8.1 1.35 10.76.9 1.3 1.96 2.76 3.37 2.71 1.35-.05 1.86-.87 3.5-.87 1.63 0 2.09.87 3.52.85 1.45-.03 2.37-1.33 3.26-2.63 1.03-1.51 1.45-2.97 1.47-3.05-.03-.01-2.82-1.08-2.85-4.29zM14.4 4.6c.74-.9 1.24-2.16 1.11-3.41-1.07.04-2.38.72-3.15 1.62-.68.8-1.28 2.07-1.12 3.29 1.19.09 2.41-.61 3.16-1.5z"/></svg><figcaption>Apple</figcaption></figure></div>
-</div></div>
+</div>
 <script>
 /* Report to the vitrine: how tall this specimen is, and whether it rendered.
    postMessage crosses origins, so this works from file:// as well as from a

diff --git a/ui-kit/_page.css b/ui-kit/_page.css
@@ -163,12 +163,14 @@
 /* The frame keeps the specimen at its declared width. If the column is narrower
    the frame scrolls sideways rather than squeezing the specimen, because the
    width is the point: it is what the media queries answer to. */
-/* The frame is exactly as wide as the specimen it holds, so the border sits on
-   the edge of the thing rather than around a strip of empty canvas. The width
-   comes inline from the generator and is kept in step by _frames.js when the
-   column is too narrow and the frame has to scale. */
-.ck-frame{border:1px solid var(--border-hairline,#2b2f38);border-radius:14px;overflow:hidden;
-  background:var(--bg-page,#0f1013);max-width:100%}
+/* The frame carries no chrome of its own: no border, no corner radius, no
+   background. It had all three and they cut into the components, because a
+   14px radius clips a control that sits flush to the edge of its viewport and a
+   hairline border draws a line across it. What a specimen stands on is now
+   decided by the specimen: a layout brings its own canvas and plate, a single
+   control stands on the page. The width comes inline from the generator and is
+   kept in step by _frames.js when the column is too narrow to hold it. */
+.ck-frame{overflow:hidden;max-width:100%}
 .ck-frame iframe{display:block;border:0;max-width:none}
 .ck-zoom{font-family:var(--font-mono,'IBM Plex Mono',monospace);font-size:10px;letter-spacing:.03em;
   color:var(--text-brass,#d7ac53);border:1px solid var(--border-brass,rgba(199,162,78,.3));

diff --git a/ui-kit/specimens/button-outcome-row.html b/ui-kit/specimens/button-outcome-row.html
@@ -8,13 +8,13 @@
 <link rel="stylesheet" href="../_specimen.css">
 </head>
 <body>
-<div class="device"><div class="app-case">
+<div class="app-case">
 <div class="kit-row">
       <div class="yesno" style="width:220px"><a href="#"><button>Yes</button></a><a href="#"><button>No</button></a></div>
       <button class="icon-btn" aria-label="Notifications"><svg class="ic" viewBox="0 0 24 24" aria-hidden="true"><use href="#i-bell-b"/></svg></button>
       <button class="load-more">Load more events</button>
     </div>
-</div></div>
+</div>
 <svg width="0" height="0" aria-hidden="true" style="position:absolute"><defs><symbol id="i-bell-b" viewBox="0 0 24 24"><path fill="currentColor" d="M18.75 9.71v-.705C18.75 5.136 15.726 2 12 2S5.25 5.136 5.25 9.005v.705a4.4 4.4 0 0 1-.692 2.375L3.45 13.81c-1.011 1.575.062 3.68 1.966 3.843a51 51 0 0 0 13.167 0c1.904-.163 2.977-2.268 1.966-3.843l-1.108-1.725a4.4 4.4 0 0 1-.692-2.375"/><path fill="currentColor" d="M7.243 18.545a5.002 5.002 0 0 0 9.513 0c-3.145.28-6.367.281-9.513 0"/></symbol></defs></svg>
 <script>
 /* Report to the vitrine: how tall this specimen is, and whether it rendered.

diff --git a/ui-kit/specimens/outcome-overlays.html b/ui-kit/specimens/outcome-overlays.html
@@ -8,7 +8,7 @@
 <link rel="stylesheet" href="../_specimen.css">
 </head>
 <body>
-<div class="device"><div class="app-case">
+<div class="app-case">
 <div class="kit-dlgs">
       <dialog class="app-case app-dialog outcome-dialog win-dialog" open aria-label="You were right"><div class="sheet-head"><h2>You were right</h2><a href="#"><button type="button" class="sheet-close" aria-label="Close">x</button></a></div><div class="sheet-body">
         <p class="fine" style="font-weight:bold;font-size:13px;margin:0;">Will the US government shut down before March 1, 2027?</p>
@@ -47,7 +47,7 @@
         <a href="#"><button type="button" class="provider-btn" style="justify-content:center;width:100%;">Browse events</button></a>
       </div></dialog>
     </div>
-</div></div>
+</div>
 <script>
 /* Report to the vitrine: how tall this specimen is, and whether it rendered.
    postMessage crosses origins, so this works from file:// as well as from a

diff --git a/ui-kit/specimens/hiw-dialog.html b/ui-kit/specimens/hiw-dialog.html
@@ -8,7 +8,7 @@
 <link rel="stylesheet" href="../_specimen.css">
 </head>
 <body>
-<div class="device"><div class="app-case">
+<div class="app-case">
 <div class="kit-dlgs"><div style="flex:0 1 520px"><dialog open id="howitworksDialog" class="app-dialog hiw-dialog" aria-label="How it works">
     <button type="button" class="hiw-close" data-close-dialog aria-label="Close">
       <svg class="ic" viewBox="0 0 24 24" aria-hidden="true"><path d="M6 6l12 12M18 6L6 18"/></svg>
@@ -49,7 +49,7 @@
       <a href="#" class="hiw-full">Read the full guide <svg class="ic hiw-arrow" viewBox="0 0 24 24" aria-hidden="true"><path d="M5 12h14M13 6l6 6-6 6"/></svg></a>
     </div>
   </dialog></div></div>
-</div></div>
+</div>
 <script>
 /* Report to the vitrine: how tall this specimen is, and whether it rendered.
    postMessage crosses origins, so this works from file:// as well as from a

diff --git a/ui-kit/specimens/input-amount.html b/ui-kit/specimens/input-amount.html
@@ -8,11 +8,11 @@
 <link rel="stylesheet" href="../_specimen.css">
 </head>
 <body>
-<div class="device"><div class="app-case">
+<div class="app-case">
 <div class="kit-dlgs"><dialog open id="depositDialog" class="app-dialog" aria-label="Add funds"><div class="sheet-body"><div><span class="field-label">Amount to add</span>
 <div class="amount-row"><input class="amount-input" type="text" inputmode="decimal" pattern="[0-9.$]*" value="$20.00" aria-label="Amount to add"></div>
 <div class="quick"><button type="button">$10</button><button type="button" class="sel">$20</button><button type="button">$50</button><button type="button">$100</button></div></div></div></dialog></div>
-</div></div>
+</div>
 <script>
 /* Report to the vitrine: how tall this specimen is, and whether it rendered.
    postMessage crosses origins, so this works from file:// as well as from a

diff --git a/ui-kit/specimens/filters-toggle.html b/ui-kit/specimens/filters-toggle.html
@@ -8,13 +8,13 @@
 <link rel="stylesheet" href="../_specimen.css">
 </head>
 <body>
-<div class="device"><div class="app-case">
+<div class="app-case">
 <div class="kit-row" style="gap:26px">
       <span class="kit-tgl"><span class="toggle" role="switch" aria-checked="true" tabindex="0" aria-label="On"></span> On</span>
       <span class="kit-tgl"><span class="toggle" role="switch" aria-checked="false" tabindex="0" aria-label="Off"></span> Off</span>
       <span class="kit-tgl"><span class="toggle" role="switch" aria-checked="false" aria-disabled="true" tabindex="-1" aria-label="Disabled"></span> Disabled</span>
     </div>
-</div></div>
+</div>
 <script>
 /* Report to the vitrine: how tall this specimen is, and whether it rendered.
    postMessage crosses origins, so this works from file:// as well as from a

diff --git a/ui-kit/specimens/filters-sort.html b/ui-kit/specimens/filters-sort.html
@@ -8,12 +8,12 @@
 <link rel="stylesheet" href="../_specimen.css">
 </head>
 <body>
-<div class="device"><div class="app-case">
+<div class="app-case">
 <div class="kit-row" style="margin-top:14px"><details class="filter-menu"><summary>Sort: Trending</summary><div class="filter-panel"><ul>
         <li><label><input type="radio" name="s" checked> Trending</label></li>
         <li><label><input type="radio" name="s"> Newest</label></li>
         <li><label><input type="radio" name="s"> Closing soon</label></li></ul></div></details></div>
-</div></div>
+</div>
 <script>
 /* Report to the vitrine: how tall this specimen is, and whether it rendered.
    postMessage crosses origins, so this works from file:// as well as from a

diff --git a/ui-kit/specimens/signin.html b/ui-kit/specimens/signin.html
@@ -8,7 +8,7 @@
 <link rel="stylesheet" href="../_specimen.css">
 </head>
 <body>
-<div class="device"><div class="app-case">
+<div class="app-case">
 <div class="kit-dlgs"><dialog open id="signinDialog" class="app-dialog signin-dialog" aria-label="Sign in or create account">
     <div class="sheet-head">
       <h2>Sign in or create account</h2>
@@ -33,7 +33,7 @@
       <p class="fine">By continuing you agree to the <a href="#">Terms</a> and <a href="#">Privacy Policy</a>.</p>
     </div>
   </dialog></div>
-</div></div>
+</div>
 <script>
 /* Report to the vitrine: how tall this specimen is, and whether it rendered.
    postMessage crosses origins, so this works from file:// as well as from a
